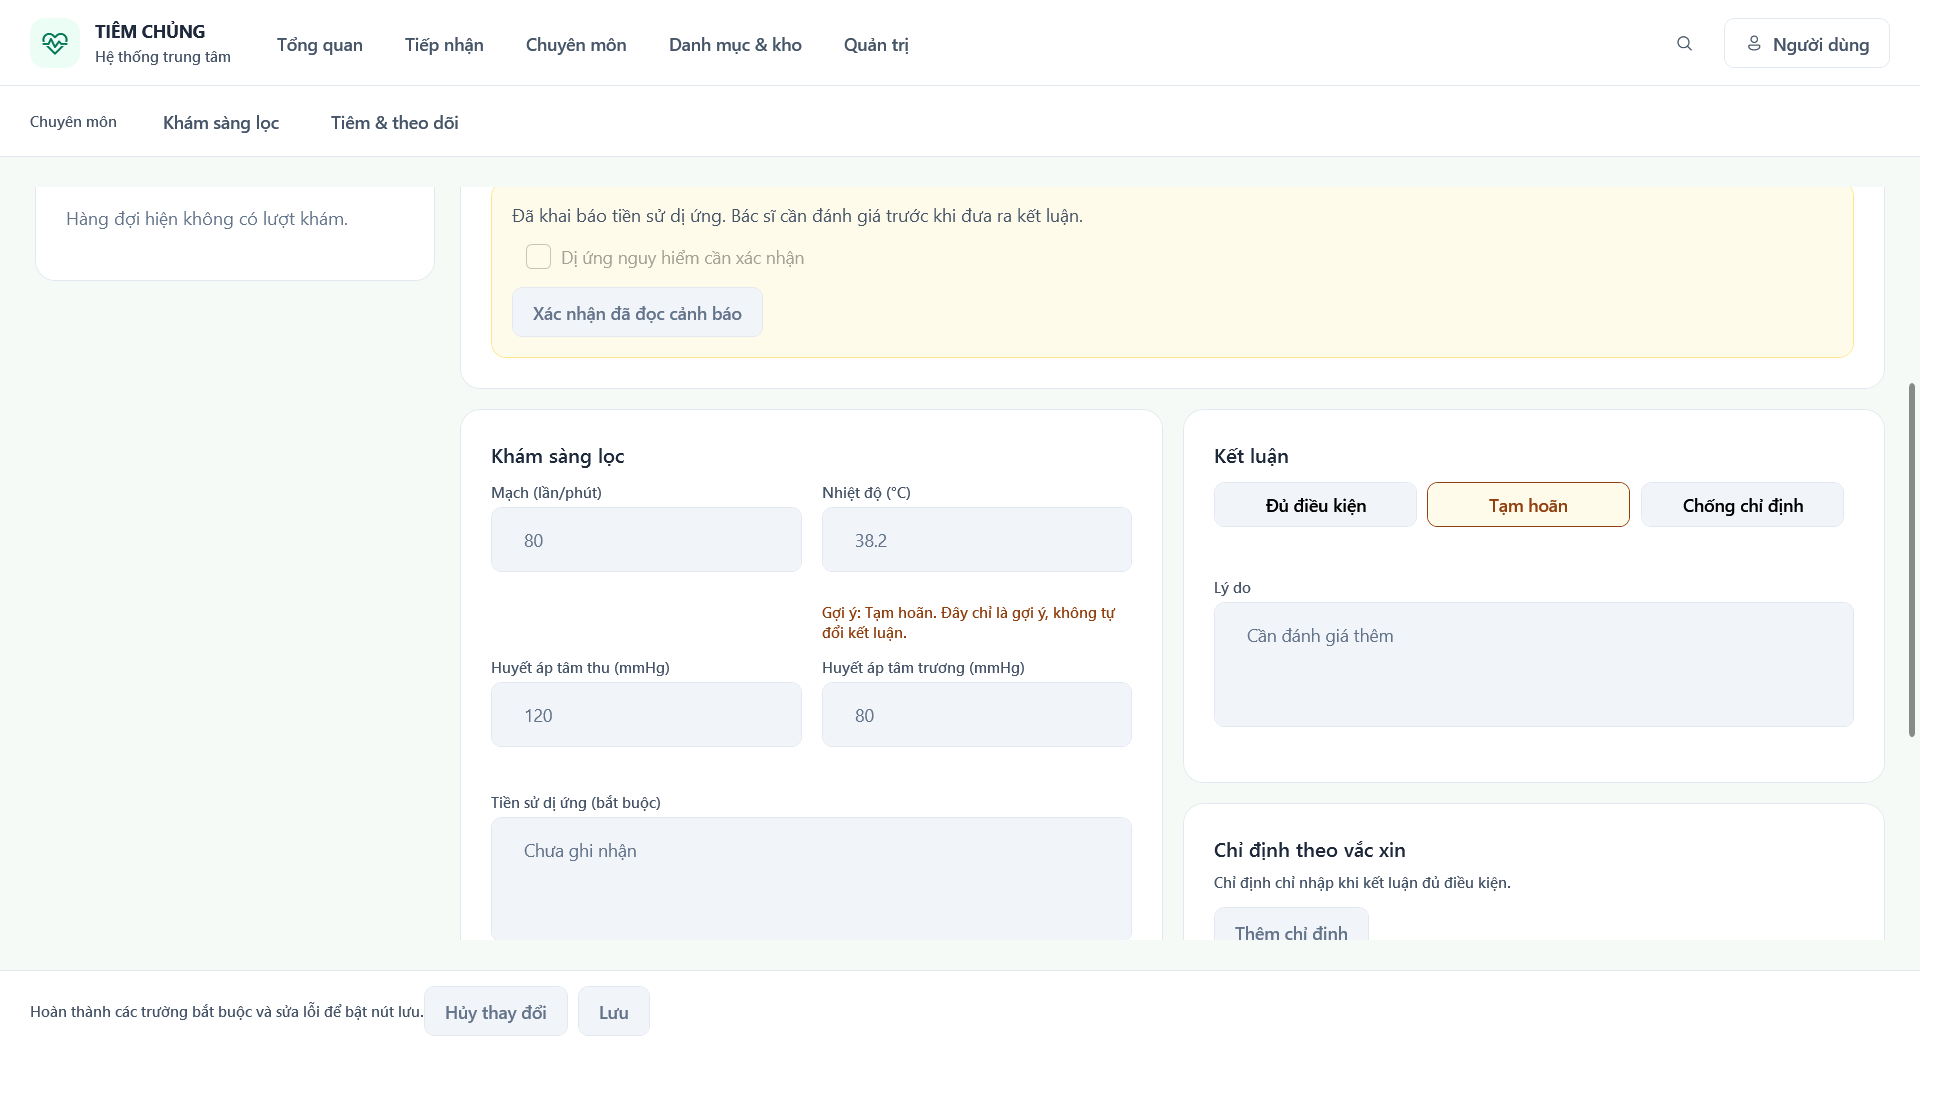
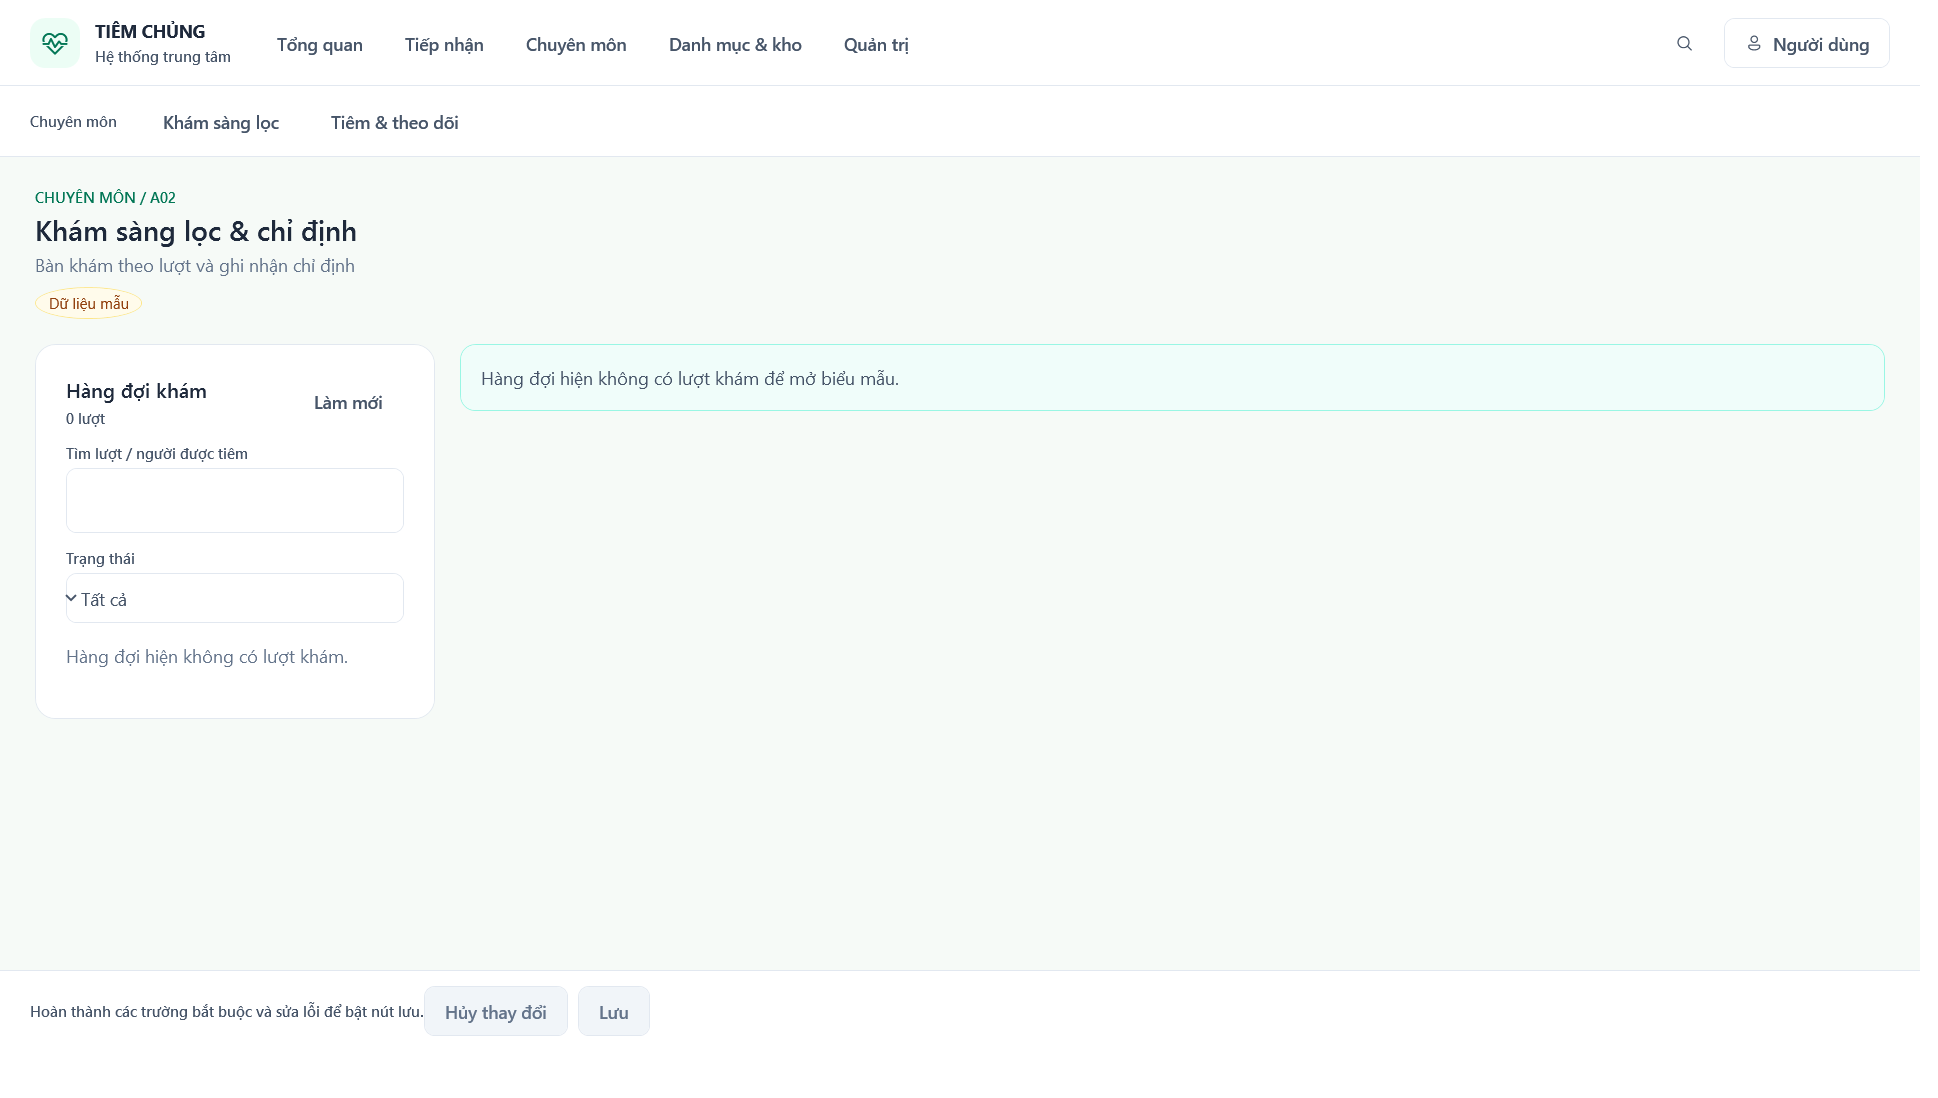
fix(windows): clear A02 form when queue becomes empty

diff --git a/apps/windows/ViewsV2/ScreeningView.xaml b/apps/windows/ViewsV2/ScreeningView.xaml
@@ -49,9 +49,11 @@
                         <Border.Style><Style TargetType="Border" BasedOn="{StaticResource CE.Callout.Info}"><Style.Triggers>
                             <DataTrigger Binding="{Binding HasSelection}" Value="True"><Setter Property="Visibility" Value="Collapsed" /></DataTrigger>
                         </Style.Triggers></Style></Border.Style>
-                        <TextBlock Text="Chưa chọn lượt khám. Chọn một dòng trong hàng đợi để mở biểu mẫu." Style="{StaticResource CE.Text.Body}" />
+                        <TextBlock>
+                            <TextBlock.Style><Style TargetType="TextBlock" BasedOn="{StaticResource CE.Text.Body}"><Setter Property="Text" Value="Chưa chọn lượt khám. Chọn một dòng trong hàng đợi để mở biểu mẫu."/><Style.Triggers><DataTrigger Binding="{Binding HasEmptyQueue}" Value="True"><Setter Property="Text" Value="Hàng đợi hiện không có lượt khám để mở biểu mẫu."/></DataTrigger></Style.Triggers></Style></TextBlock.Style>
+                        </TextBlock>
                     </Border>
-                    <StackPanel IsEnabled="{Binding HasSelection}">
+                    <StackPanel IsEnabled="{Binding HasSelection}" Visibility="{Binding HasSelection, Converter={StaticResource BoolVisibility}}">
                         <Border Style="{StaticResource CE.Card}" Margin="0,0,0,16">
                             <StackPanel>
                                 <TextBlock Text="Người được tiêm &amp; đăng ký" Style="{StaticResource CE.Text.Section}" Margin="0,0,0,12" />

diff --git a/apps/windows/ViewModels/ScreeningViewModel.cs b/apps/windows/ViewModels/ScreeningViewModel.cs
@@ -30,7 +30,7 @@ public sealed class ScreeningViewModel : ViewModelBase
     public ScreeningViewModel()
     {
         Queue = new ObservableCollection<ScreeningQueueSample>(ScreeningSampleData.CreateQueue());
-        Queue.CollectionChanged += (_, _) => { if (SelectedEncounter is not null && !Queue.Contains(SelectedEncounter)) { IsDirty = false; SelectedEncounter = null; } RefreshFilter(); };
+        Queue.CollectionChanged += (_, _) => { if (SelectedEncounter is not null && !Queue.Contains(SelectedEncounter)) { IsDirty = false; SelectedEncounter = null; ResetDraft(); Feedback = ""; } RefreshFilter(); };
         VaccineCatalog = ScreeningSampleData.CreateVaccineCatalog();
         QueueView = CollectionViewSource.GetDefaultView(Queue);
         QueueView.Filter = MatchesFilter;
